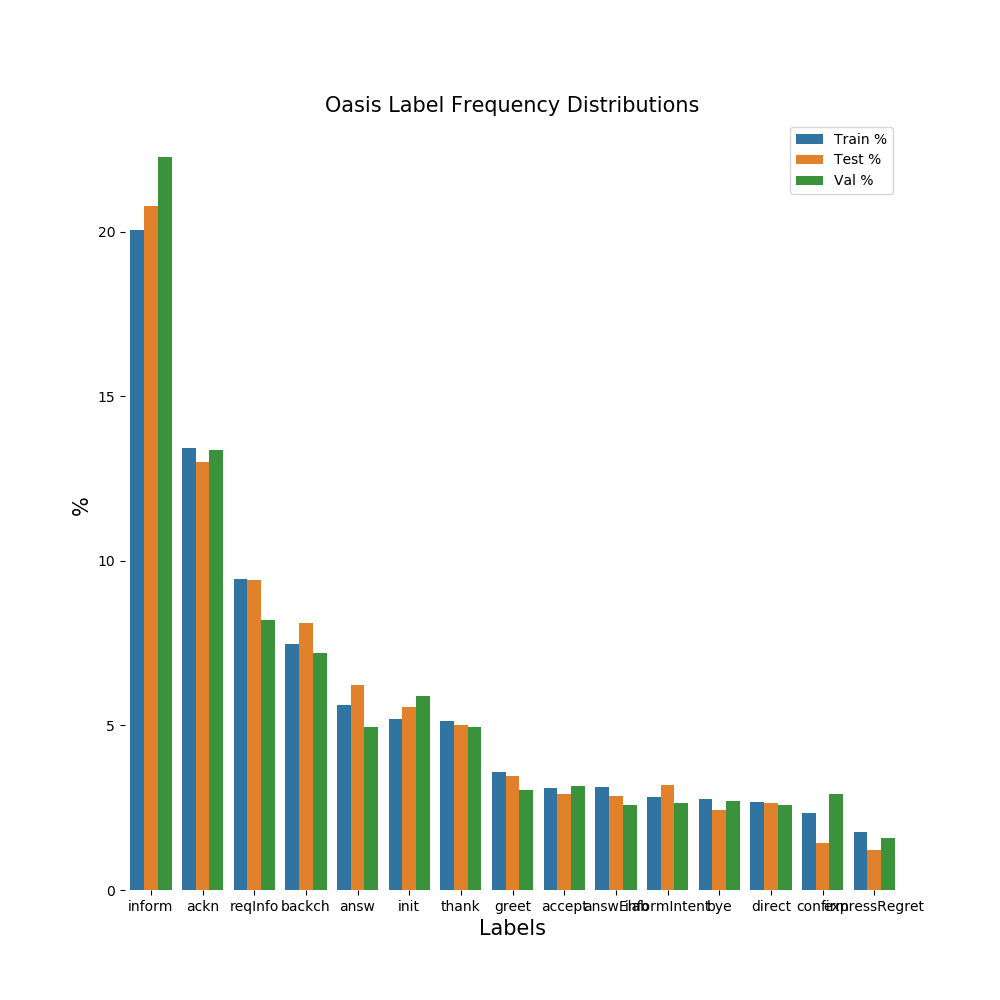
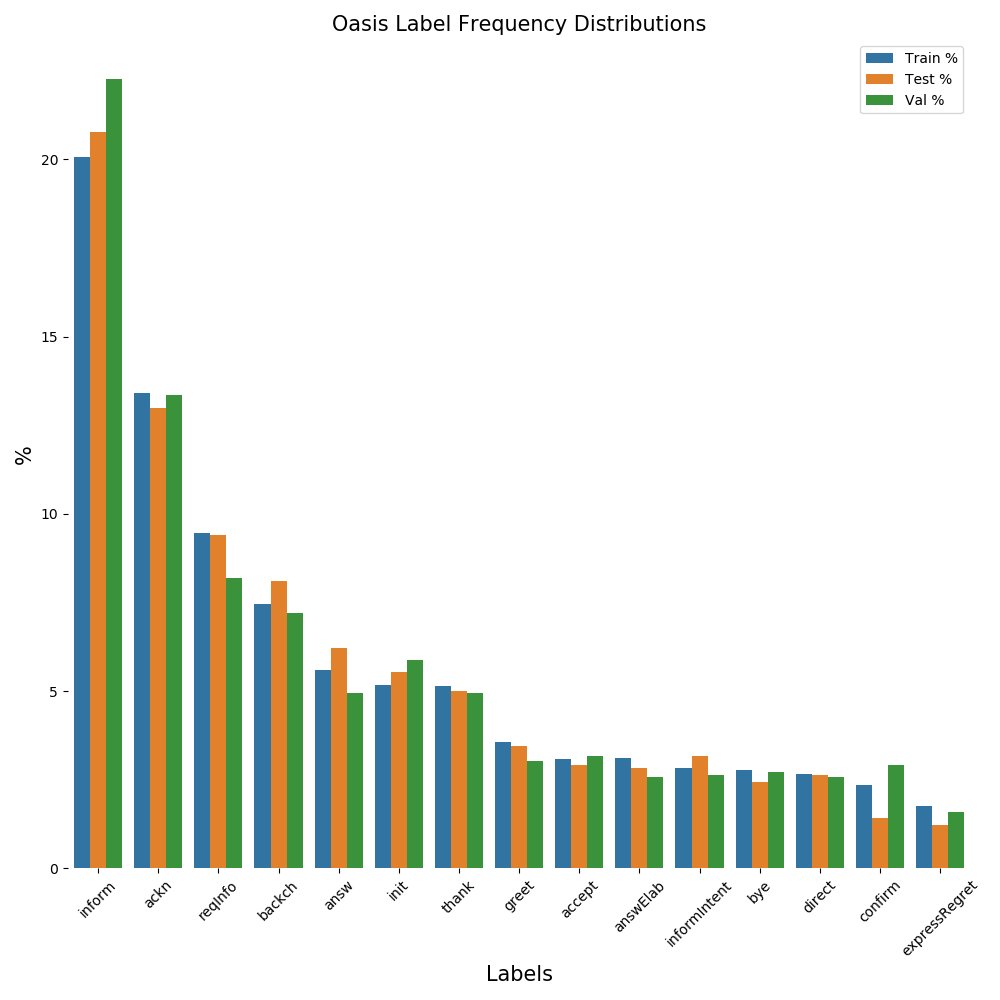
Fix Plot Labels

diff --git a/oasis_utilities.py b/oasis_utilities.py
@@ -178,7 +178,8 @@ def plot_label_distributions(data, num_labels=None, title=None, fig_size=(10, 10
     plt.legend(ncol=1, loc="upper right", frameon=True)
     plt.ylabel('%', fontsize=font_size)
     plt.xlabel('Labels', fontsize=font_size)
+    plt.xticks(rotation=45)
     if title:
         plt.title(title, fontsize=font_size)
-
+    plt.tight_layout()
     return fig
